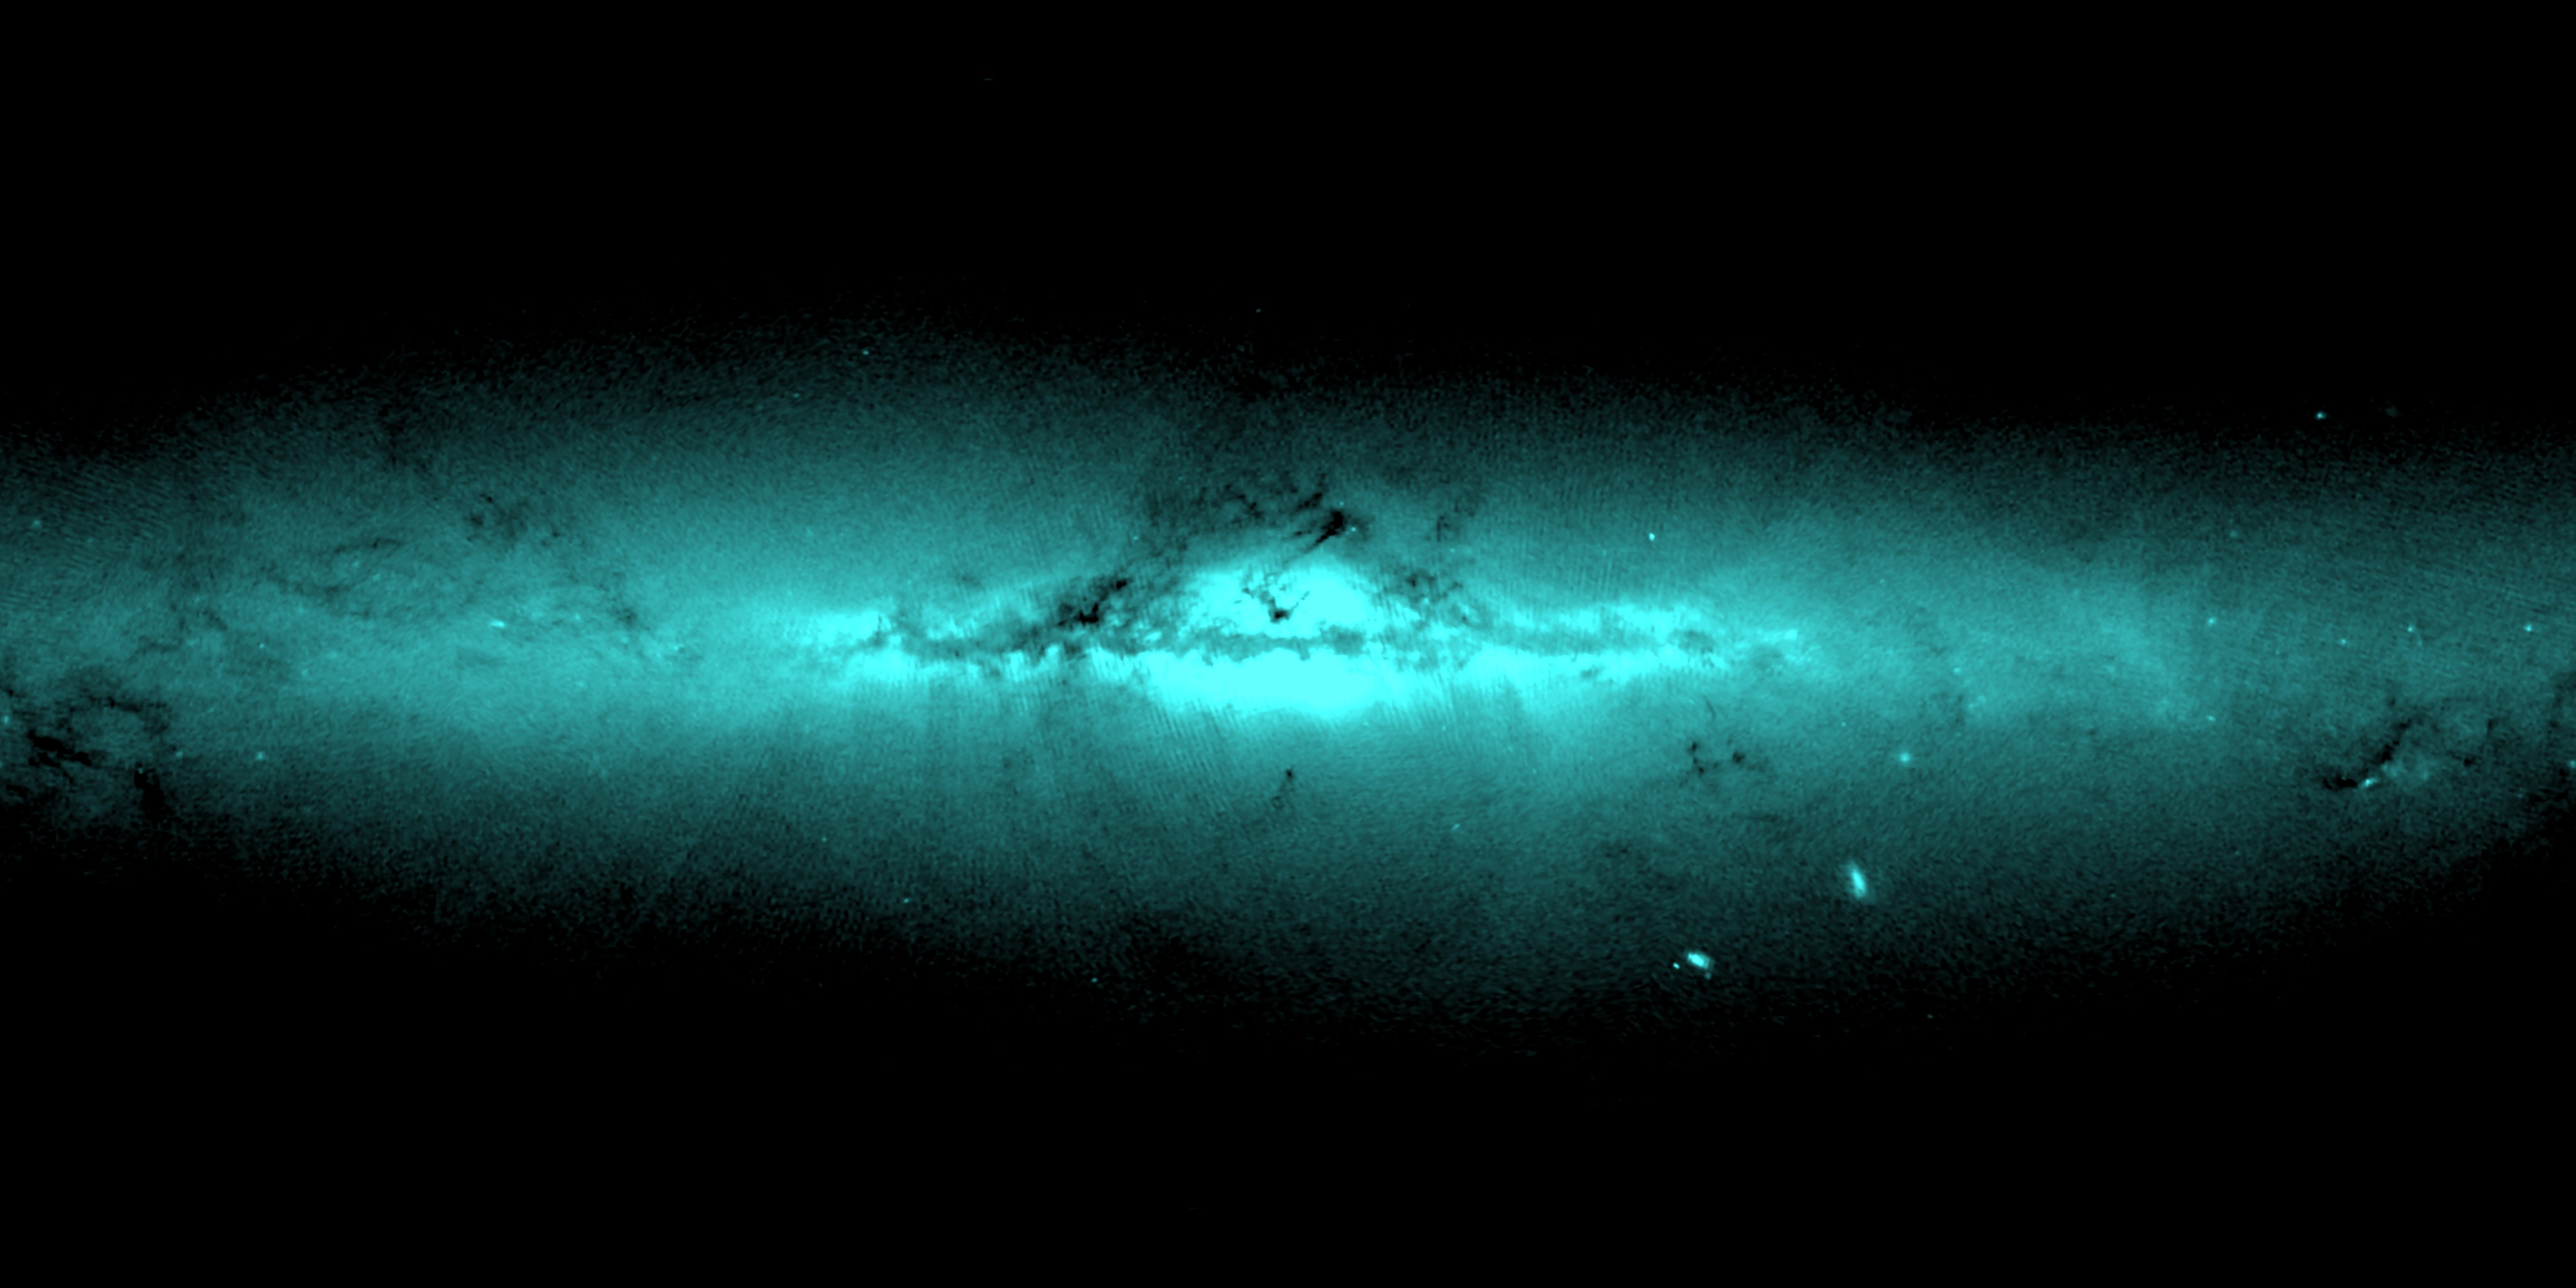
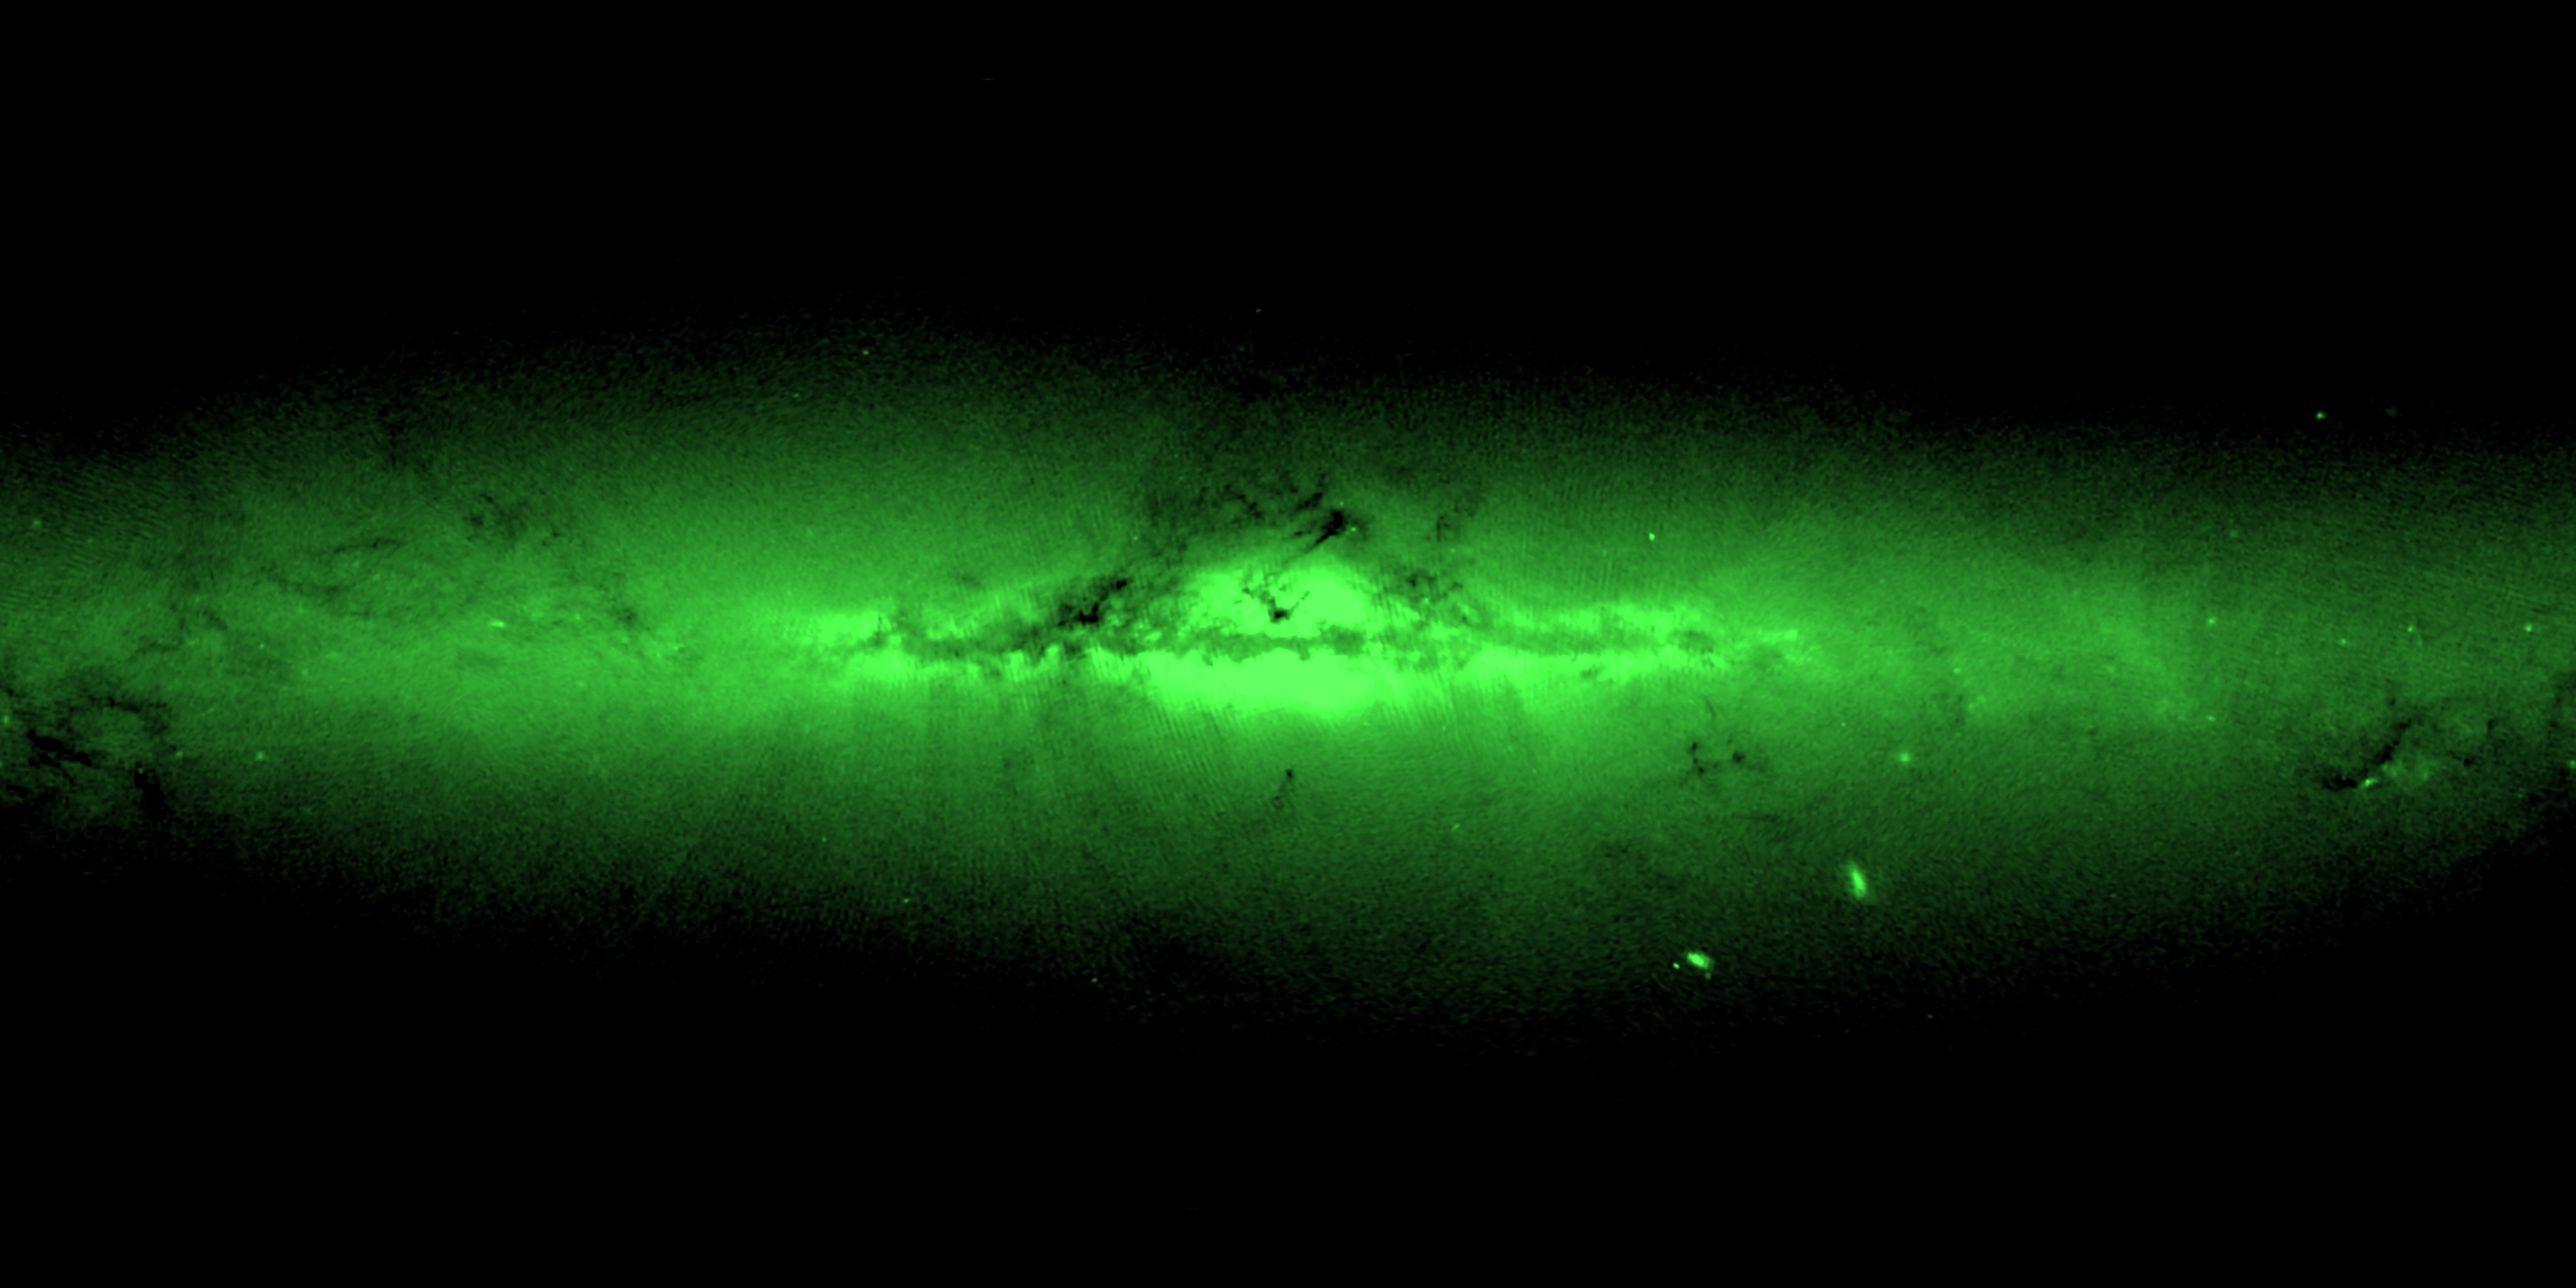
Deep onion: wavelength colours extend the rainbow
Visible light keeps its own colour (550 nm = green); longer waves run
yellow, orange, red (near-IR, mid-IR, far-IR, microwave, radio) and
shorter ones blue and violet (X-ray, gamma). Replaces the rank-spaced
hues that put visible at cyan and radio at yellow.

Claude-Session: https://claude.ai/code/session_017smdztJiJBTh8MuH9CDnY6

diff --git a/tools/cosmic-onion-merged.html b/tools/cosmic-onion-merged.html
@@ -7,8 +7,8 @@
 <!--
   Distance onion and spectral onion merged: each shell is a distance range,
   and inside it every map is tinted by its wavelength (gamma magenta, X-ray
-  blue, visible cyan, near/mid/far-infrared teal to green, radio yellow,
-  microwave red), screen-blended. The shells are pre-blended RGB maps
+  blue, visible green, near/mid/far-infrared yellow to orange, microwave
+  red-orange, radio red: the rainbow extended past both ends), screen-blended. The shells are pre-blended RGB maps
   (merged-1…6.jpg) so the page draws one sphere per shell.
   Maps:  npm run build:sky-onion   (the merged shells build last)
   Then:  npm run dev  →  http://localhost:5173/tools/cosmic-onion-merged.html
@@ -57,7 +57,7 @@
   .label small { display: block; font-weight: 400; color: #c3c7d4; margin-right: 19px; font-size: 10.5px; }
   #spectrum { position: relative; height: 26px; margin: 2px 0 0; }
   #spectrum .bar { position: absolute; left: 0; right: 0; top: 9px; height: 8px; border-radius: 4px;
-    background: linear-gradient(90deg, hsl(0 90% 62%), hsl(60 90% 62%), hsl(120 90% 62%), hsl(180 90% 62%), hsl(240 90% 62%), hsl(300 90% 62%)); }
+    background: linear-gradient(90deg, hsl(0 90% 62%), hsl(60 90% 62%), hsl(120 90% 62%), hsl(180 90% 62%), hsl(225 90% 62%), hsl(270 90% 62%)); }
   #spectrum .tick { position: absolute; top: 5px; width: 12px; height: 12px; margin-left: -6px; border-radius: 50%;
     border: 2px solid var(--sky); box-sizing: border-box; }
   .bands { display: flex; flex-wrap: wrap; gap: 2px 10px; font-size: 11px; margin-bottom: 8px; }
@@ -142,12 +142,13 @@ import { OrbitControls } from "three/addons/controls/OrbitControls.js";
 const STILL = new URLSearchParams(location.search).has("still");
 if (STILL) document.body.classList.add("still");
 
-// Wavelength colours (same order as the spectral onion), low → high frequency
-// left → right on the bar.
+// Wavelength colours extend the rainbow past both ends: visible light keeps
+// its own colour (550 nm = green), longer waves run yellow → orange → red,
+// shorter ones blue → violet. Long → short, left → right on the bar.
 const BANDS = [
-  { name: "microwave", hue: 0 }, { name: "radio", hue: 60 }, { name: "far-IR", hue: 120 },
-  { name: "mid-IR", hue: 135 }, { name: "near-IR", hue: 150 }, { name: "visible", hue: 180 },
-  { name: "X-ray", hue: 240 }, { name: "gamma", hue: 300 },
+  { name: "radio", hue: 0 }, { name: "microwave", hue: 12 }, { name: "far-IR", hue: 30 },
+  { name: "mid-IR", hue: 42 }, { name: "near-IR", hue: 55 }, { name: "visible", hue: 120 },
+  { name: "X-ray", hue: 225 }, { name: "gamma", hue: 270 },
 ];
 const hsl = (h, l = 62) => `hsl(${h}, 90%, ${l}%)`; // commas: three.js parses only this form
 
@@ -155,17 +156,17 @@ const hsl = (h, l = 62) => `hsl(${h}, 90%, ${l}%)`; // commas: three.js parses o
 // `color` only tints its label, outline and edge.
 const LAYERS = [
   { id: "merged-1", name: "Nearby stars", band: "under 330 ly · visible: 23,000 Hipparcos stars",
-    color: hsl(180) },
+    color: hsl(120) },
   { id: "merged-2", name: "Local Milky Way", band: "330–3,000 ly · visible: 57 million Gaia stars",
-    color: hsl(180) },
+    color: hsl(120) },
   { id: "merged-3", name: "The Galaxy", band: "3,000–30,000 ly · visible: 134 million Gaia stars; plus the whole-sky dust (far-IR), hydrogen (radio), hot gas (X-ray) and gamma rays, which come mostly from inside the Galaxy",
     color: "hsl(0, 0%, 92%)", gain: 0.5 }, // five maps blended: dim it so inner shells show
   { id: "merged-4", name: "Galaxies", band: "30 million–1 billion ly · near-IR: 43,000 galaxies, 2MRS",
-    color: hsl(150) },
+    color: hsl(55) },
   { id: "merged-5", name: "Quasars", band: "1–12 billion ly · mid-IR selected: 756,000 quasars, Quaia",
-    color: hsl(135) },
+    color: hsl(42) },
   { id: "merged-6", name: "Cosmic microwave background", band: "46 billion ly · microwave: the oldest light, Planck",
-    color: hsl(0) },
+    color: hsl(12) },
 ];
 LAYERS.forEach((L) => {
   L.meta = L.band;
@@ -350,7 +351,7 @@ const bandList = document.getElementById("bands");
 BANDS.forEach((b) => {
   const tick = document.createElement("div");
   tick.className = "tick";
-  tick.style.left = `${(100 * b.hue) / 300}%`;
+  tick.style.left = `${(100 * b.hue) / 270}%`;
   tick.style.background = hsl(b.hue);
   spectrum.appendChild(tick);
   const name = document.createElement("span");
